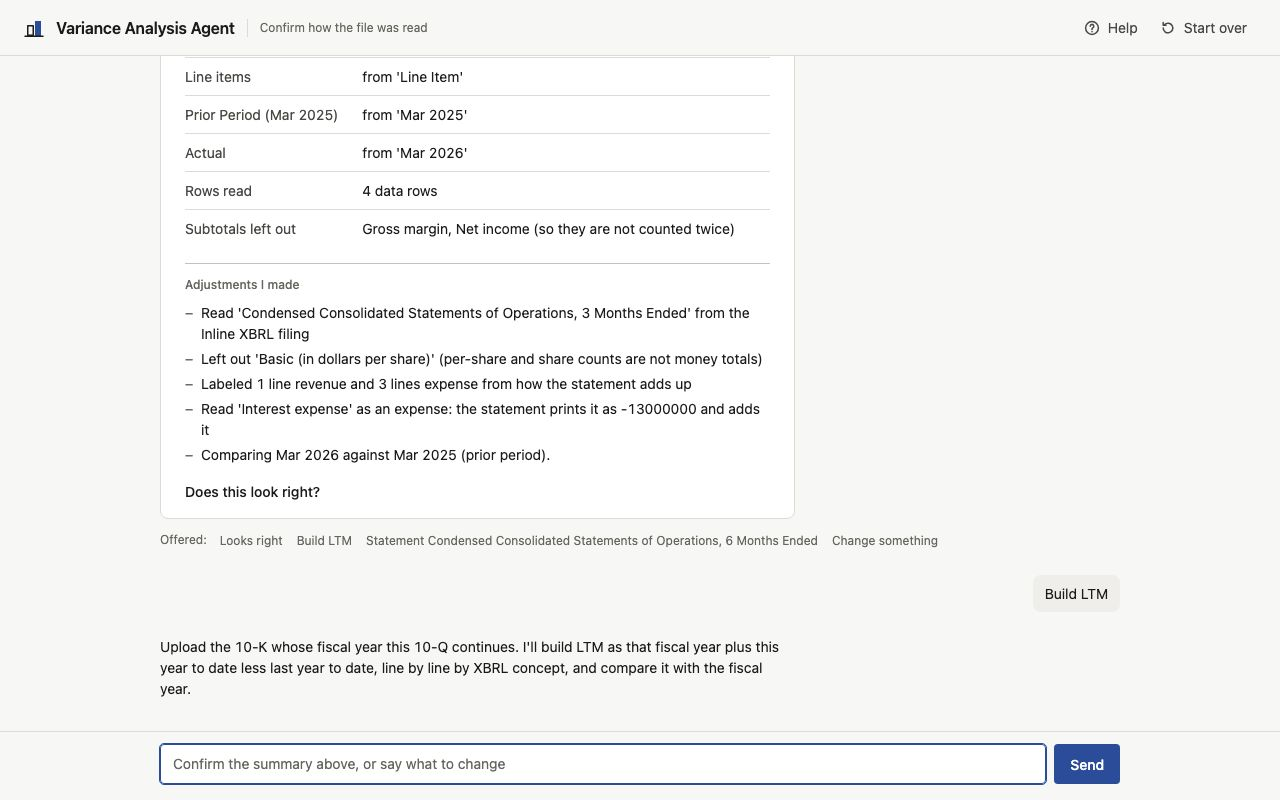
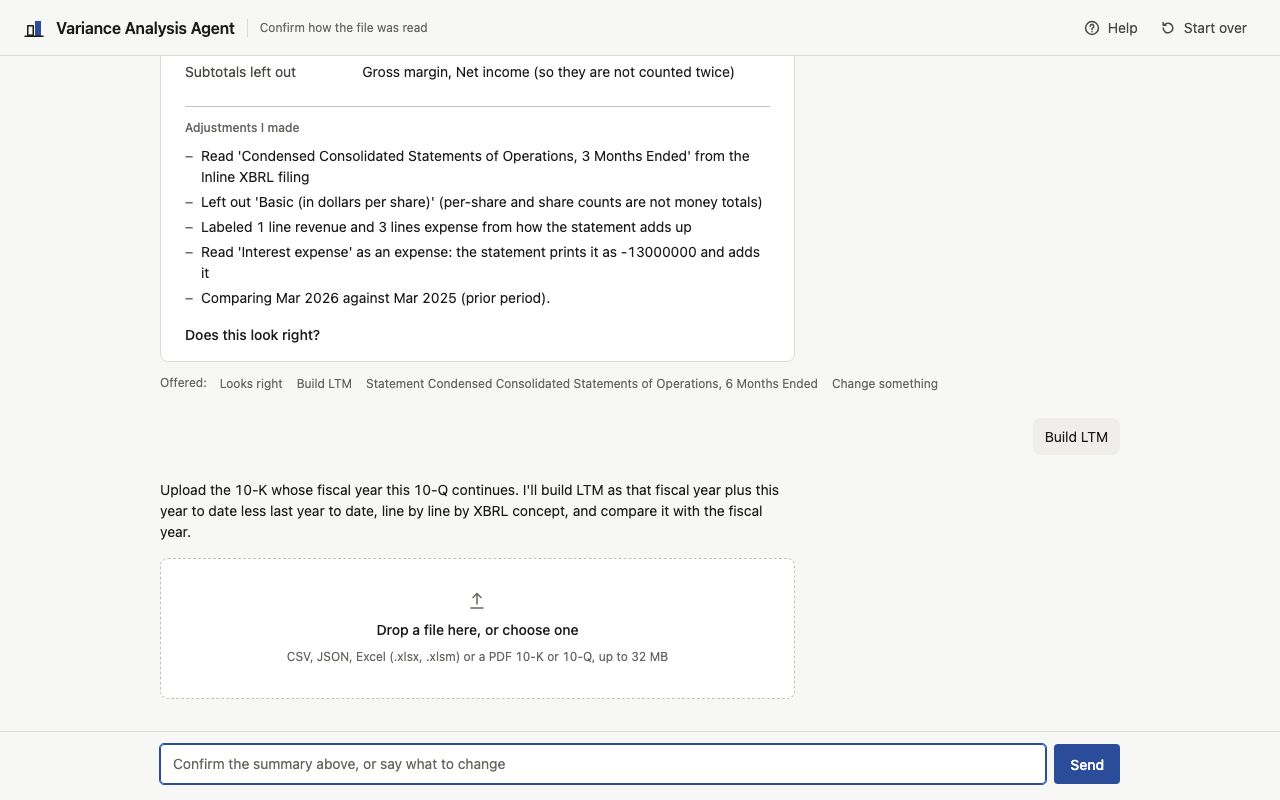
docs(analysts): STOP 2 evidence (sweep, reviews, screenshots, gates); Phase 5 record

diff --git a/docs/analysts/evidence/stop-2/README.md b/docs/analysts/evidence/stop-2/README.md
@@ -1,0 +1,81 @@
+# STOP 2 (after Phase 5), 2026-10-27
+
+Branch `analysts/filings-and-excel`. Only aggregates are kept here. Per-filing rows, the fresh-eyes sample and report, and the sweep outputs live in `~/vaa-edgar-corpus/stop-2/` and `~/vaa-edgar-corpus/sweep_A_p5b-*` (constraint 7). Everything under `readers/` is fictional (HALVORSEN.FAKE and `.FAKE` tickers).
+
+## Done since STOP 1
+
+- **Phase 4.**
+  - Balance sheets and cash flow statements from Inline XBRL are compared as Increase or Decrease, after every subtotal foots and the identity holds (R7-R9).
+  - LTM is built from a 10-K and a 10-Q (`--ltm-from`, and "Build LTM" in the chat), with every component cited (R10-R11).
+  - Budget and actuals in two files join on a shared key (`--compare-file`, two uploads in the chat), which closes F4 (R12).
+- **Phase 5.**
+  - `limit`, `benchmark` and `target` bases (R13-R15).
+  - The `Multiple` measure (R16).
+  - Derived metrics declared in a mapping file and compared with a case or covenant schedule (R17).
+  - All are opt-in, recorded in audit 1.9 and documented in `docs/financial-rules.md`. Each has a Fraction oracle and straddling tests at Breach/Near, Near/Within and In line/Above.
+- **Contracts.** The 19 contract fixtures and schemas 1.0-1.8 are unchanged.
+
+## Draw A at STOP 2
+
[1 lines of base64/hex data omitted]
+
+| Measure | Inline XBRL primaries (33 filings) |
+|---|---|
+| Wrong values | **0** |
+| Values verified / unverified | 5,596 / 80; every unverified one is a printed dash or a confirmed blank, with no fact behind it (Decision 35) |
+| All three statements read, by section 5's definition | **15 of 33 (45%, Wilson 95% 30-62%)** |
+| All three read without a refusal | 26 of 33 (79%, 62-89%) |
+| Read without a refusal, by statement | income 28/33, balance sheet 32/33, cash flow 32/33 |
+| Refusals | 24, every one plain |
+
+The `Financial_Report.xlsx` reader on the six 2018 filings: 169 verified, 7 unverified, 0 wrong.
+
+## Per-reader reviews
+
+One subagent per new seat got that seat's row of section 3 and its outputs (`readers/<seat>/`), and none of the plan's reasoning. **None found a wrong number.**
+
+What their findings changed, before this stop:
+- **Owen.** A metric term now uses its stored XBRL value, so one metrics file gives the same EBITDA however a filing prints interest; R17 was amended. The report cites every term and LTM component.
+- **Clara.**
+  - The identity record states its rule and every subtotal's terms (R9).
+  - The statement report lists supplemental lines left out.
+  - The covenant formulas show natural signs.
+- **Marcus and Theo.**
+  - A rate's tolerance is shown in bps.
+  - A missing tolerance says "none (exact)".
+  - The benchmark note says In line is Neutral and the edge counts.
+  - The target table drops its empty Status column.
+- **Ines.** The limit report opens with its Breach/Near/Within count and says how to read a Min limit's utilization.
+- **Chat.** The screenshot run found that a request for a second file (LTM's 10-K, the other half of a pair) showed no drop zone. That reply now carries one.
+
+The reviewed outputs are kept in the corpus scratch copy. The outputs under `readers/` were regenerated after the fixes.
+
+Raised for the owner, since they are rules or Phase 6 work, not defects:
+- the Increase/Decrease wording on printed negatives (R7)
+- a row at its limit with a buffer reading Within (section 3's own words)
+- the breach ranking and the reading of a Min limit's utilization
+- no default early-warning band
+- Above and Below on a fee row
+- FP&A wording and fields left over in the new seats' reports and audits
+- display precision
+- a percentage shown on a sign flip
+
+## Fresh eyes
+
+FRESH_EYES_RESULT
+
+## Browser check
+
+`shots/` holds 43 images, at 1280 and 375 px, of every chat screen this run changed:
+- the HTML filing summary and statement list
+- the hidden-rows question and its answer
+- the formula refusal
+- choosing and comparing a balance sheet, through to its report
+- Build LTM with the 10-K as a second upload
+- a budget file asking for its actuals, then the joined summary
+
+Every file uploaded is fictional (`../shots_analysts.py`). The first run stopped at the second upload because no drop zone was shown; that was fixed (`52ae8ab`) and the run repeated.
+
+## Gates
+
+`sh docs/ui/evidence/gates.sh dist` at `8e7131e`: ruff, mypy (70 files), pytest **2447 passed**, compileall, pip check, contracts (19 unchanged), build, twine, distribution, and both artifacts installed without the Excel and PDF extras: **all PASS**. The log is at `~/vaa-edgar-corpus/stop-2/gates_dist.log`.

diff --git a/docs/analysts/PLAN.md b/docs/analysts/PLAN.md
@@ -36,7 +36,12 @@ Branch `analysts/filings-and-excel`, cut from `main` at `8a609c4`. Corpus and pe
 | 4 | Draw A at `9d3b176`: zero wrong, 5,596 verified, 80 unverified (every one a dash or confirmed blank, with no fact behind it). All three statements read by section 5's definition on 15 of 33 Inline XBRL filings (45%, 30-62%); read without a refusal on 26/33 (79%, 62-89%). By statement, without a refusal: income 28/33, balance sheet 32/33, cash flow 32/33 | done | sweep `p4c-9d3b176`, sha256 `7b2e5502…` (aggregate recomputed from the CSV with the Inline XBRL denominator) |
 | 4 | F4 two-file join (R12): `--compare-file`, chat pairs, audit `join` documents; `test_realworld_intake_baseline.py:154` edited as approved | done | this commit |
 | 4 | Phase 4 exit: gates green (2,396), Fraction oracles for LTM and both identities, Owen's (LTM) and Clara's (balance sheet, cash flow) reports read; sweep counts no-fact unverified values (Decision 35) | done | this commit |
-| 5 | `limit`, `benchmark`, `target`, `Multiple`, derived metrics; STOP 2 | todo | |
+| 5 | `limit`, `benchmark`, `target` bases (R13-R15) | done | `3a2c540` |
+| 5 | `Multiple` measure (R16) | done | `b2d9d92` |
+| 5 | Derived metrics (R17), amended to stored XBRL values after Owen's review | done | `078b38a`, `77acf37` |
+| 5 | Rules in `docs/financial-rules.md`; contracts; reader fixtures in `tests/fixtures/analysts/` | done | `977fec1` |
+| 5 | Seat-review fixes; second-file drop zone in the chat | done | `52ae8ab`, `f6dffd6`, `625fac7` |
+| 5 | STOP 2 | open (awaiting the owner) | evidence `docs/analysts/evidence/stop-2/` |
 | 6 | Reader surfaces kept at STOP 2 | todo | |
 | 7 | Draw B, gates, `REPORT.md` | todo | |
 
@@ -336,6 +341,15 @@ Phase 5 (scope only; no assertion changes, to confirm at STOP 2):
 
 - Read: README, the rules file, `input-contract.md` (amounts, assisted, comparison, PDF and filing EPS sections), `financial-rules.md`, `audit-contract.md` (intro and 1.8), `excel.py`, `models.py`, `measures.py`, `audience.py`, `statement_shape.py`, `numeric.py`, and `intake.py` around `_read_excel_bytes`, `_read_pdf_bytes`, `detect_header_row`, `detect_unit_scale`, `read_input_assisted` and `_process_raw_table`. Also `MULTI_AUDIENCE_2026-10.md`'s interpretation and boundary sections, and the strict and API Excel reads (`parsing.py`, `comparisons.py`).
 - Looked at: the E1 probe report states the overstated totals with a confident thousands note. Nothing in the read says the cells were already full-scale. Phase 0 changed no report, workbook or chat reply.
+
+### Phase 5 (2026-10-27)
+
+- **Looked at.**
+  - Reports: Ines's limit report ranks Breach, Near and Within with headroom and utilization. Clara's covenant report shows each ratio beside its formula, with every term cited. Owen's case report shows LTM revenue and EBITDA against the case. Theo's and Marcus's reports give differences in bps with their tolerances.
+  - Workbook: refused plainly for these comparisons (Decision 32 extended).
+  - Chat: the second-file requests for LTM and F4 now show a drop zone (the screenshot run found the gap).
+- **Seat reviews** found no wrong number. Their rule and presentation points are in the STOP 2 README for the owner.
+- **Draw A** at `8e7131e`: unchanged, with zero wrong values.
 
 ### Phase 4 (2026-10-27, up to the F4 STOP-ASK)
 
